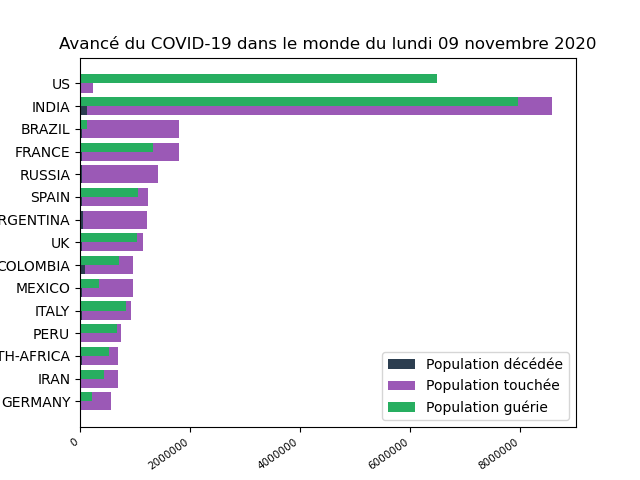
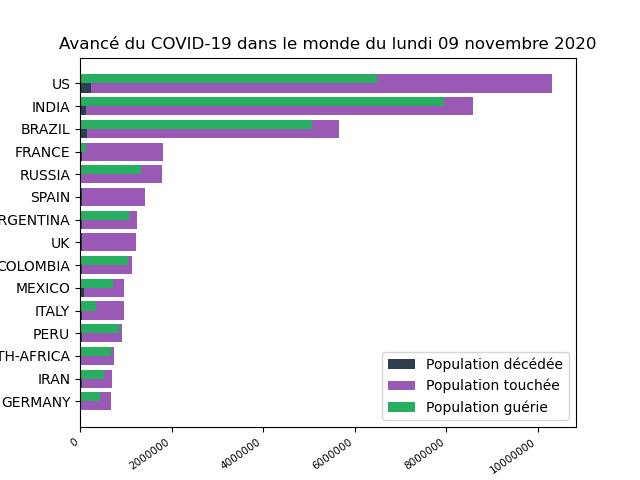
fix regex

diff --git a/main.py b/main.py
@@ -104,7 +104,7 @@ def makeGraph():
     totalcases = re.findall(r'(?<=<\/a><\/td>\n<td style="font-weight: bold; text-align:right">)((.|\n){50})', str(p.text[index:indexEnd]))
 
     totalCasesCountries = []
-    totalCasesCountries = (re.findall(r"[\d]{2,3},[\d]{3}|[\d]{1,3},[\d]{3},[\d]{3}", str(totalcases)))[:nbrCountries]
+    totalCasesCountries = (re.findall(r"[\d]{1,3},[\d]{3},[\d]{3}|[\d]{2,3},[\d]{3}", str(totalcases)))[:nbrCountries]
 
     totaldeaths = re.findall(r'(?<=<\/a><\/td>\n<td style="font-weight: bold; text-align:right">)((.|\n){180})', str(p.text[index:indexEnd]))
     totalDeathsCountries = []
